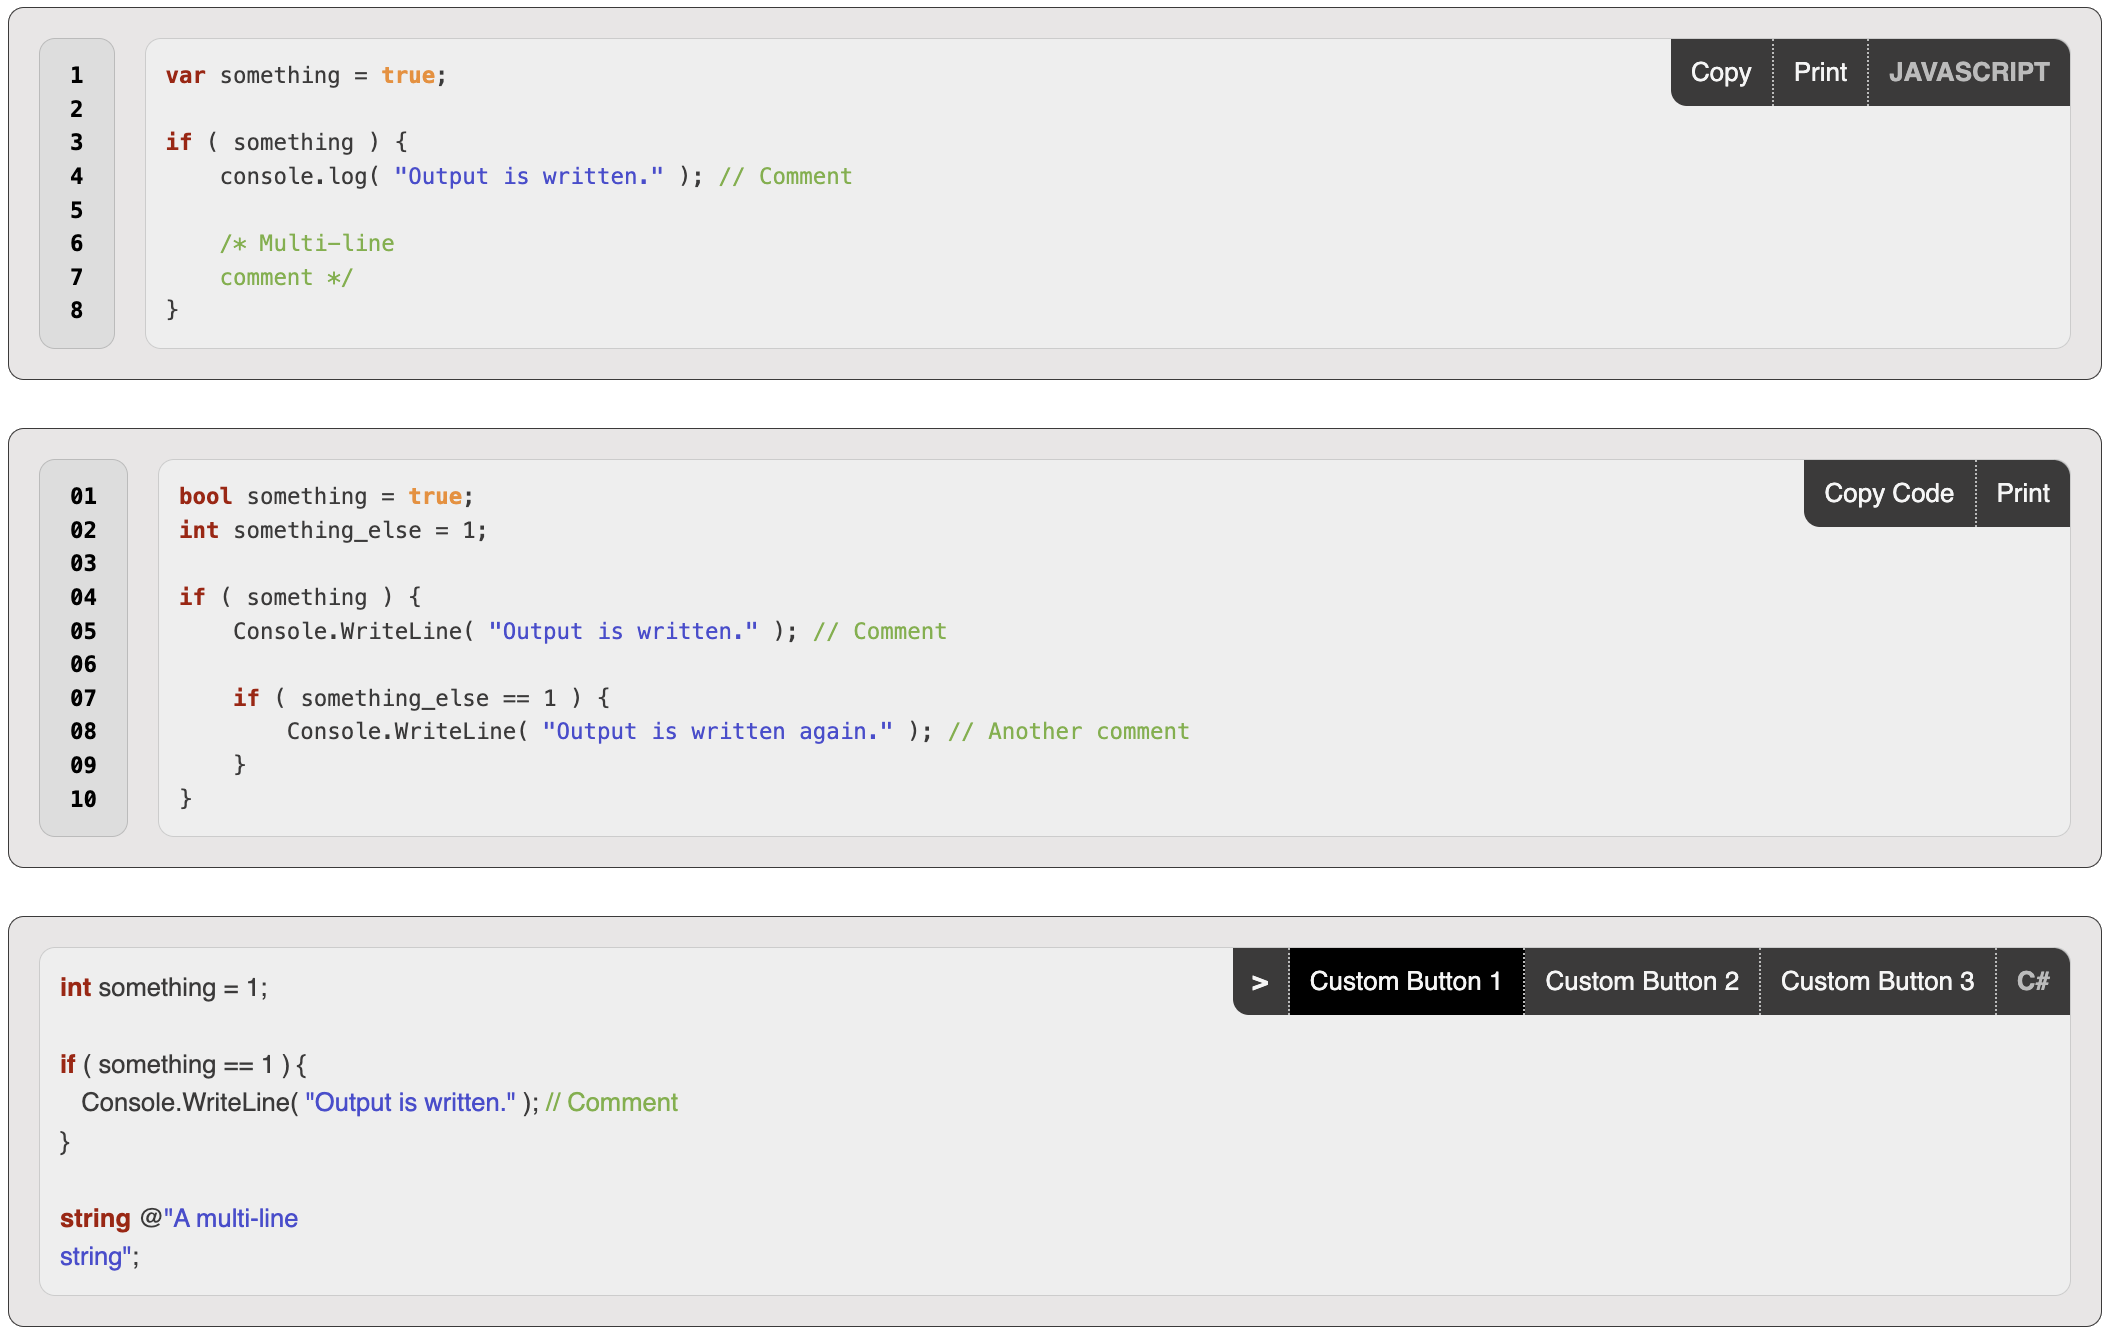
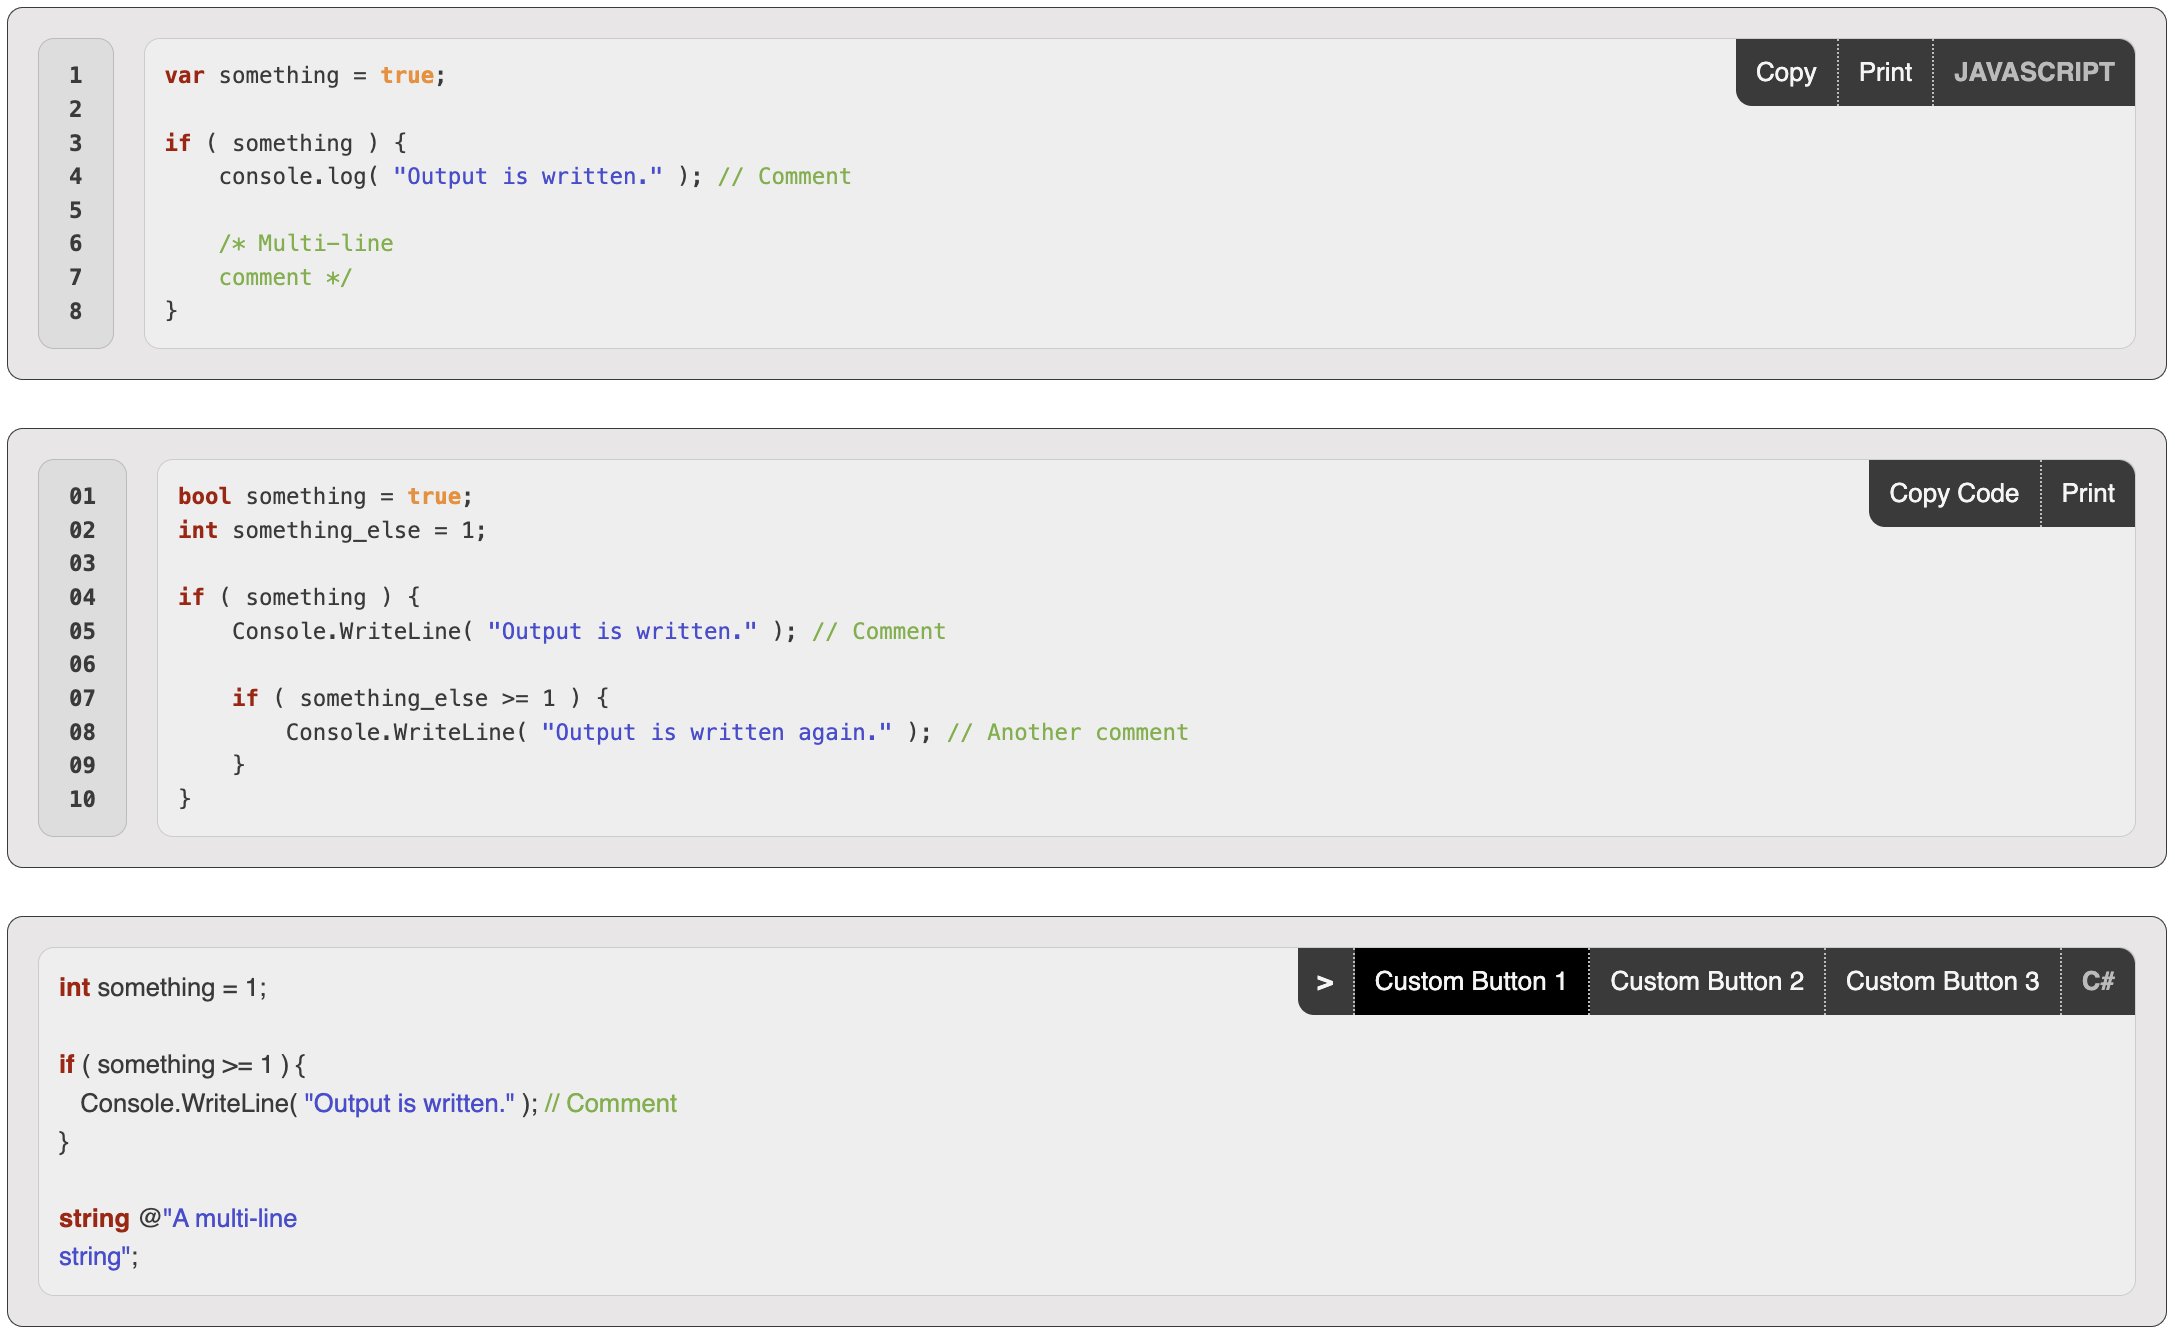
Updated images for new tabbed and dark-mode styles.

diff --git a/README.md b/README.md
@@ -14,6 +14,8 @@ Syntax.js
 <br />
 
 ![Syntax.js](docs/images/main.png)
+![Syntax.js - Tabbed](docs/images/main-tabbed.png)
+![Syntax.js - Tabbed - Dark](docs/images/main-tabbed-dark.png)
 <br>
 <br>
 
